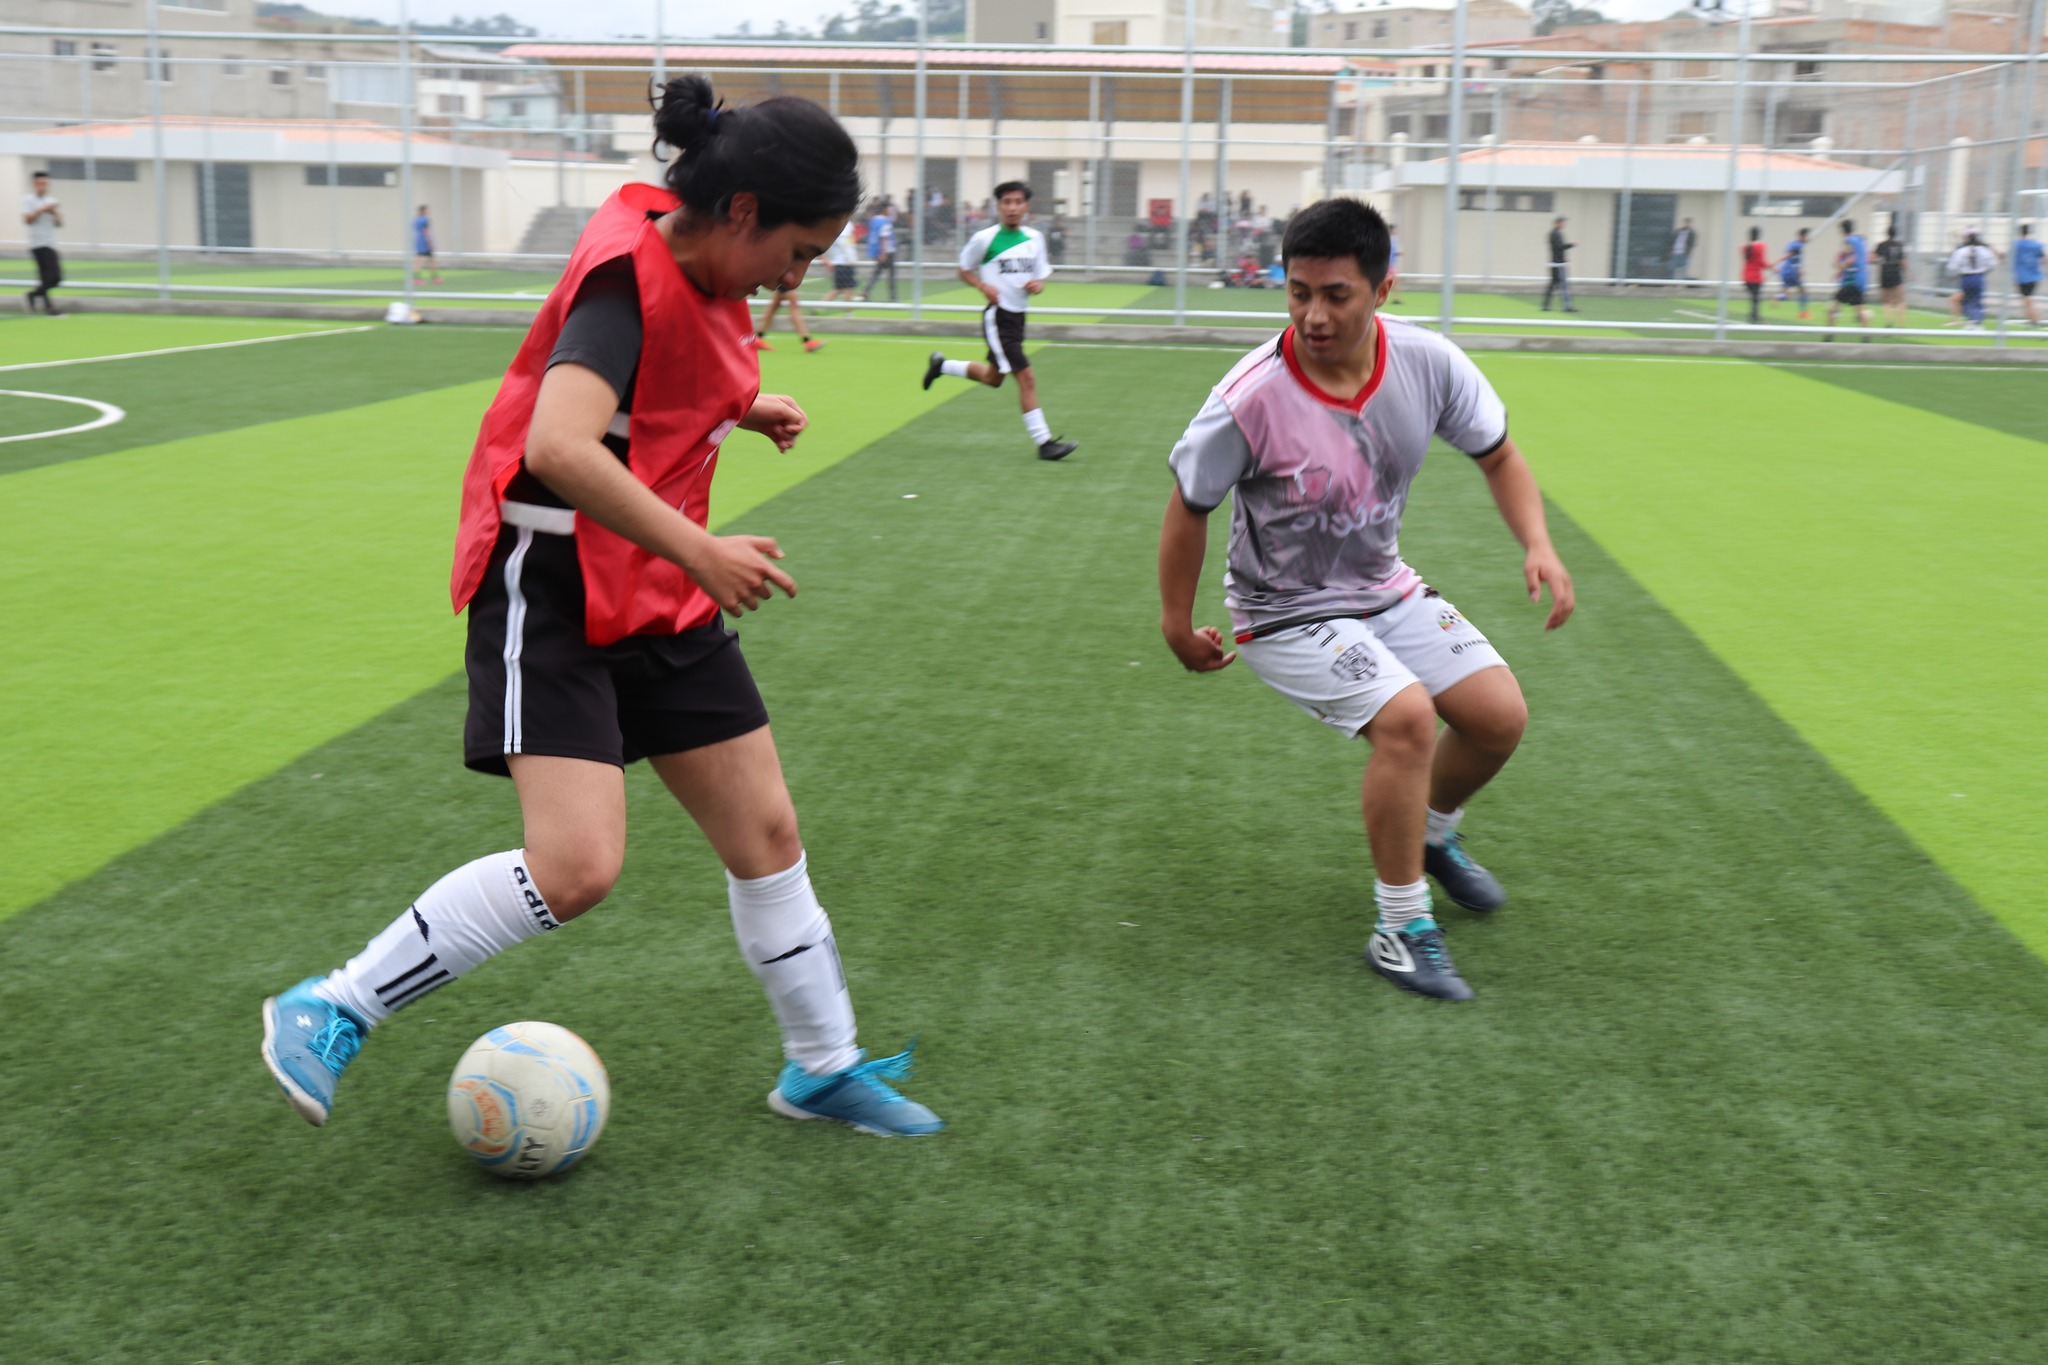
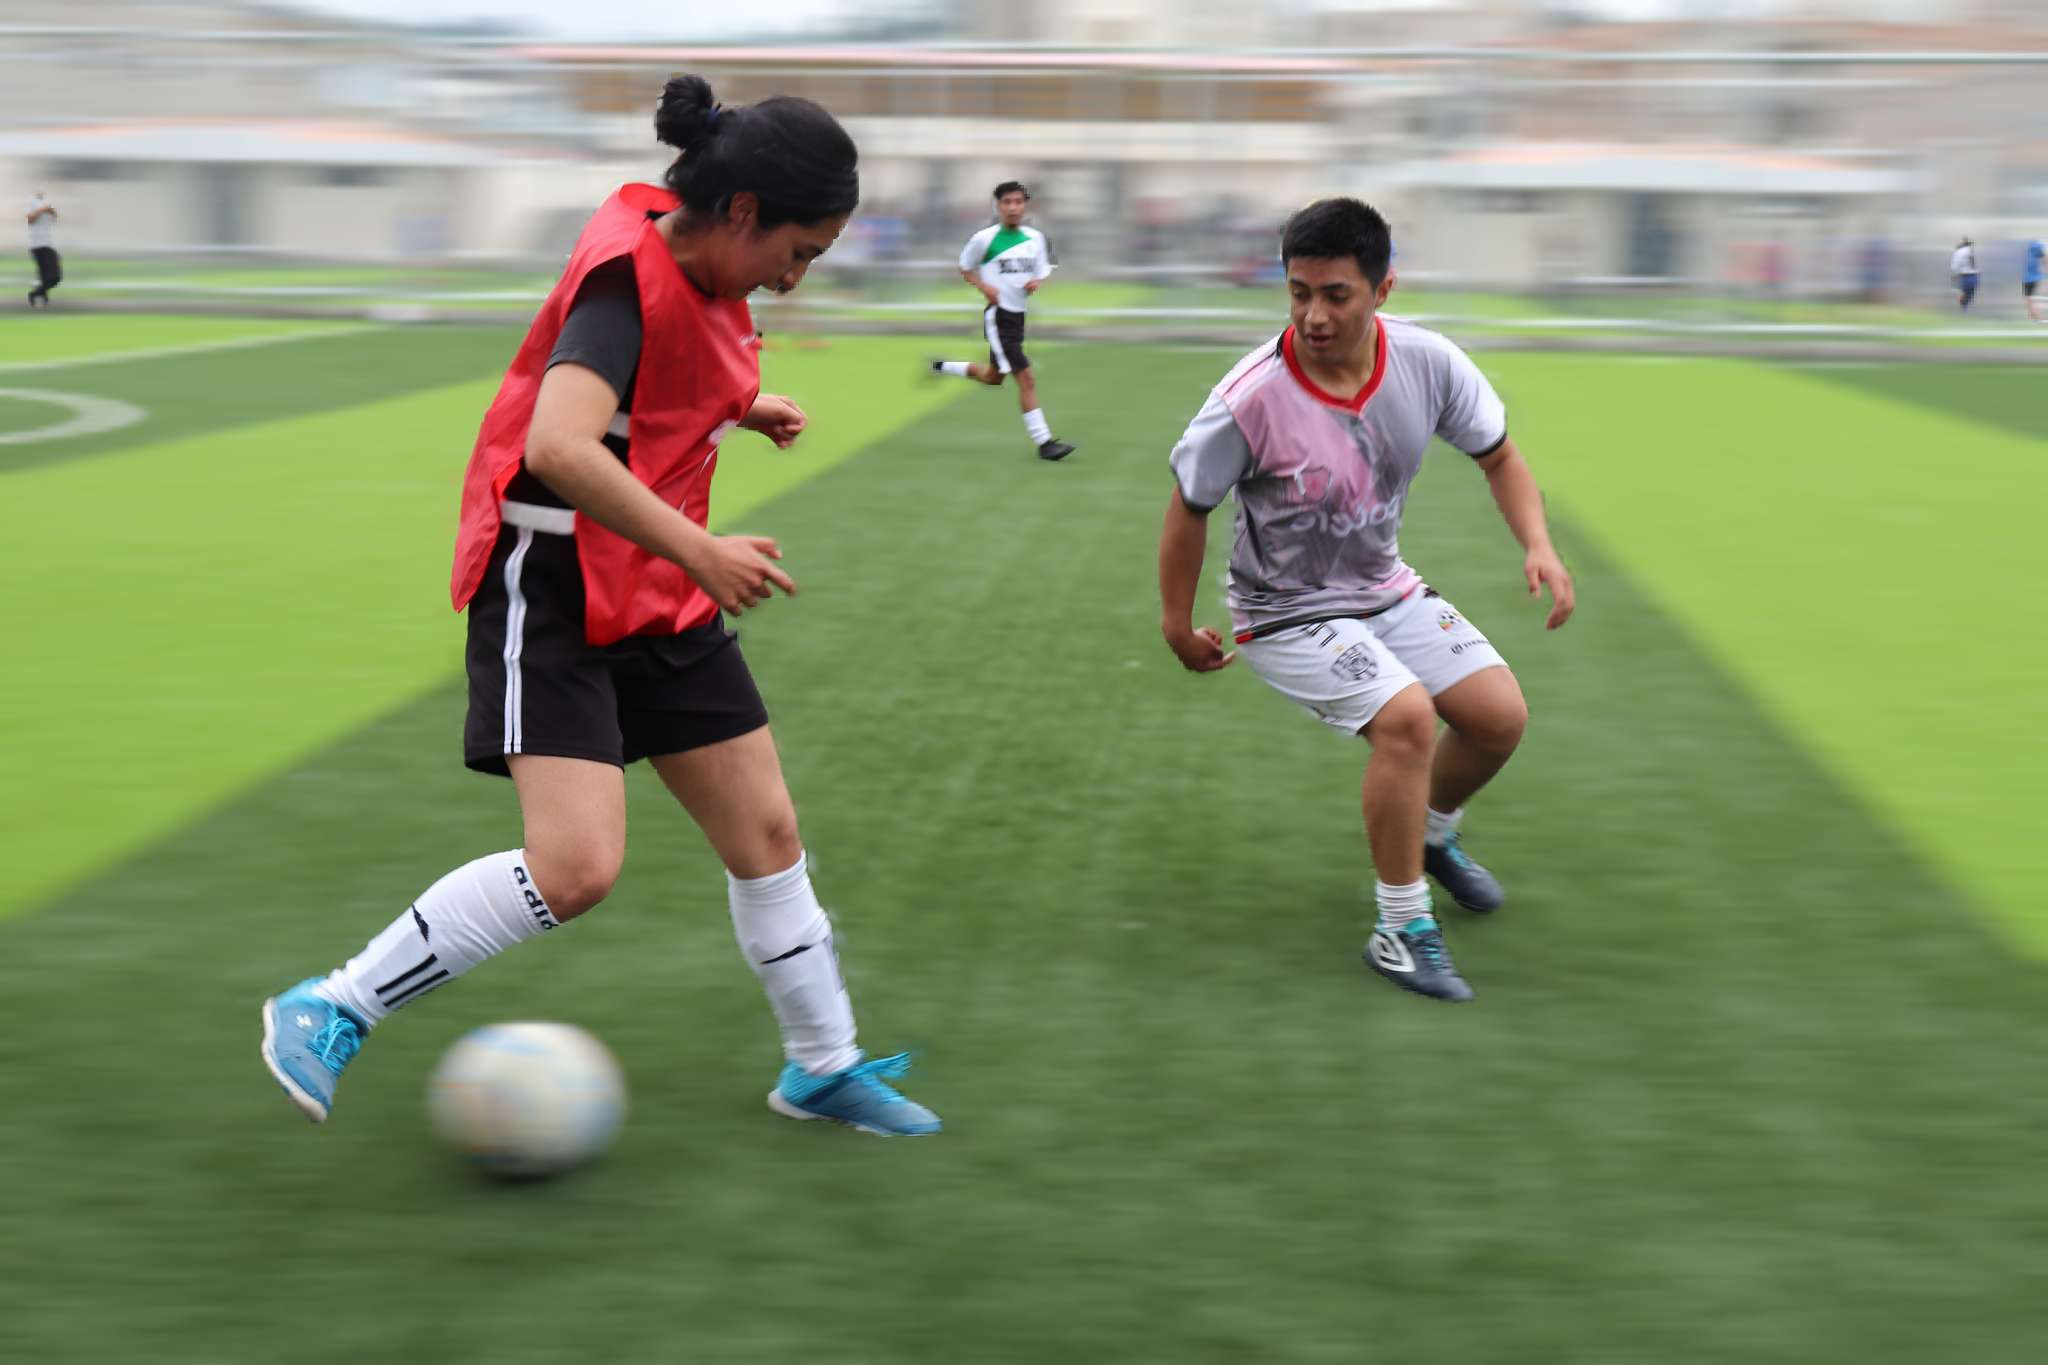
PLANOS COMPLETOS

diff --git a/universidadmapa/src/data/coordinatesData.ts b/universidadmapa/src/data/coordinatesData.ts
@@ -379,23 +379,60 @@ const areasDeportivasOriginales: AreaDeportiva[] = [
       }
     ]
   },
-  {
-    id: 'cancha-interna',
-    nombre: 'Cancha Múltiple Interna',
-    descripcion: 'Cancha deportiva para actividades internas.',
-    tipo: 'DEPORTIVO',
-    color: '#16a085',
-    plano: '/assets/images/CanchaVasquet2.jpg',
-    selectedColor: 'rgba(0, 100, 255, 0.5)',
-    coordenadas: [
-      [6916, 4408], [6400, 4408], [6340, 5504], [6900, 5464]
-    ],
-    instalaciones: [
-      { nombre: 'Cancha Multiusos', icono: '⚽' },
-      { nombre: 'Graderías', icono: '👥' },
-      { nombre: 'Piso pavimentado', icono: '🧱' }
-    ]
-  },
+ {
+  id: 'cancha-interna',
+  nombre: 'Cancha Múltiple Interna',
+  descripcion: 'Cancha deportiva para actividades internas.',
+  tipo: 'DEPORTIVO',
+  color: '#16a085',
+  plano: '/assets/images/Cancha_44.jpg',
+  selectedColor: 'rgba(0, 100, 255, 0.5)',
+  coordenadas: [
+    [6916, 4408], [6400, 4408], [6340, 5504], [6900, 5464]
+  ],
+  pisos: [
+    {
+      numero: 0,
+      nombre: 'Área Principal Interna',
+      imagen: '/assets/images/CANCHA_3.jpg',
+      descripcion: 'Vista completa de la cancha multiusos interna',
+      instalaciones: [
+        { nombre: 'Cancha Multiusos', icono: '⚽' },
+        { nombre: 'Graderías', icono: '👥' },
+        { nombre: 'Piso pavimentado', icono: '🧱' }
+      ]
+    }
+  ],
+  instalaciones: [
+    { nombre: 'Cancha Multiusos', icono: '⚽' },
+    { nombre: 'Graderías', icono: '👥' },
+    { nombre: 'Piso pavimentado', icono: '🧱' }
+  ],
+  imagenes: [
+    {
+      url: '/assets/images/CANCHAvista1.jpg',
+      alt: 'Cancha multiusos interna',
+      descripcion: 'Vista general de la cancha interna'
+    },
+    {
+      url: '/assets/images/Cesped.jpg', // (ejemplo, ajustar ruta real)
+      alt: 'Superficie de juego',
+      descripcion: 'Detalle del piso pavimentado'
+    }
+  ],
+  equipamiento: [
+    {
+      nombre: 'Redes divisiorias',
+      imagen: '/assets/images/ArcoFutbol.jpg', // (ejemplo, ajustar ruta real)
+      descripcion: 'Redes móviles para diferentes deportes'
+    },
+    {
+      nombre: 'Marcadores',
+      imagen: '/assets/images/BALON.jpg', // (ejemplo, ajustar ruta real)
+      descripcion: 'Sistema de marcación electrónico'
+    }
+  ]
+},
   {
     id: 'area-techada',
     nombre: 'Área Techada para Actividad Física',
@@ -417,7 +454,7 @@ const areasDeportivasOriginales: AreaDeportiva[] = [
     descripcion: 'Coliseo deportivo para eventos y competencias.',
     tipo: 'DEPORTIVO',
     color: '#8e44ad',
-    plano: '/assets/images/CanchaVasquet2.jpg',
+    plano: '/assets/images/COLISEOPLANO2.jpg',
     selectedColor: 'rgba(0, 100, 255, 0.5)',
     coordenadas: [
       [7200, 6236], [6700, 6268], [6440, 6480], [6387, 7432],
@@ -426,7 +463,7 @@ const areasDeportivasOriginales: AreaDeportiva[] = [
     pisos: [
       {
         numero: 0,
-        nombre: 'Piso Principal',
+        nombre: 'Coliseo Deportivo',
         imagen: '/assets/images/COLISEO_PLANO1.jpg',
         descripcion: 'Área principal del coliseo con cancha multiusos',
         instalaciones: [
@@ -443,8 +480,32 @@ const areasDeportivasOriginales: AreaDeportiva[] = [
       { nombre: 'Vestuarios', icono: '🚿' },
       { nombre: 'Sala de Prensa', icono: '🎤' },
       { nombre: 'Baños', icono: '🚻' }
+    ],
+    imagenes: [
+      {
+        url: '/assets/images/COLIVISTA.jpg',
+        alt: 'Cancha principal de fútbol',
+        descripcion: 'Vista panorámica de la cancha principal'
+      },
+      {
+        url: '/assets/images/PLANOS2.jpg',
+        alt: 'Detalle del césped sintético',
+        descripcion: 'Detalle de la superficie de juego'
+      }
+    ],
+    equipamiento: [
+      {
+        nombre: 'Arcos',
+        imagen: '/assets/images/ARO.jpg',
+        descripcion: 'Arcos reglamentarios con redes'
+      },
+      {
+        nombre: 'Balones',
+        imagen: '/assets/images/BALON2.jpg',
+        descripcion: 'Balones oficiales para entrenamiento'
+      }
     ]
-  }
+  },
 ];
 
 
